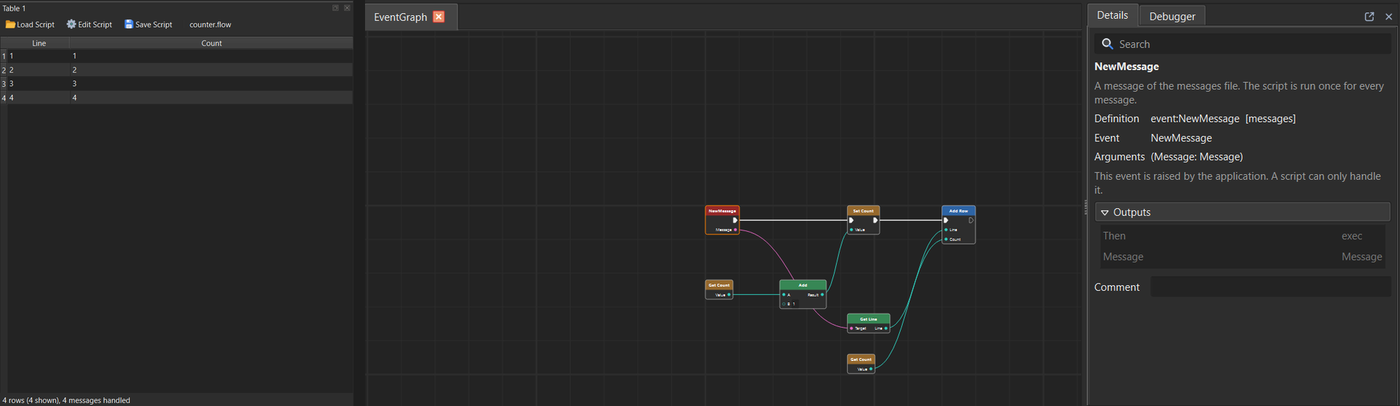
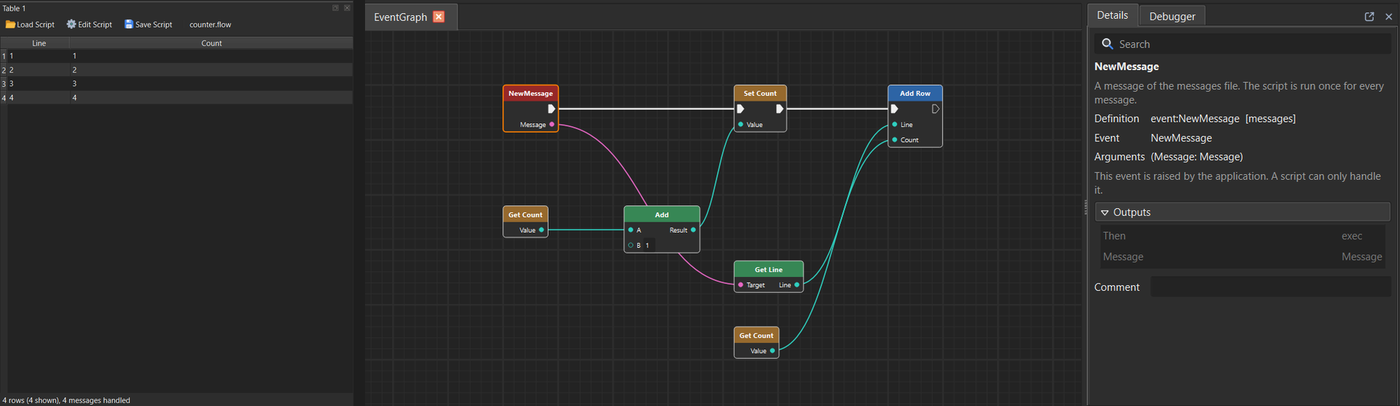
Presentation: the screenshots show the whole script, as large as it fits
ScriptEditor::devFrameAll (View > Frame All); flowstudio frames the
graph before FG_STUDIO_SCREENSHOT when FG_STUDIO_FRAME is set, the
embedded example before its editor screenshot.

diff --git a/Apps/Studio/main.cpp b/Apps/Studio/main.cpp
@@ -49,9 +49,11 @@ int main(int argc, char** argv) {
     if (qEnvironmentVariableIsSet("FG_STUDIO_RUN")) {
         QTimer::singleShot(800, &app, [ed] { ed->devRun(qEnvironmentVariable("FG_STUDIO_RUN"), qEnvironmentVariable("FG_STUDIO_BREAK")); });
     }
-    // Developer aid: FG_STUDIO_SCREENSHOT=<file.png> saves a screenshot of the window and exits.
+    // Developer aid: FG_STUDIO_SCREENSHOT=<file.png> saves a screenshot of the window and exits; with FG_STUDIO_FRAME set, the
+    // whole graph is framed first (View > Frame All: a run that stopped at a breakpoint shows the node it is at).
     if (qEnvironmentVariableIsSet("FG_STUDIO_SCREENSHOT")) {
         QString out = qEnvironmentVariable("FG_STUDIO_SCREENSHOT");
+        if (qEnvironmentVariableIsSet("FG_STUDIO_FRAME")) QTimer::singleShot(2200, &app, [ed] { ed->devFrameAll(); });
         QTimer::singleShot(2500, &app, [ed, out, &app] {
             ed->window()->grab().save(out);
             if (qEnvironmentVariableIsSet("FG_STUDIO_SCENESHOT")) ed->devSceneShot(qEnvironmentVariable("FG_STUDIO_SCENESHOT"));

diff --git a/Editor/Include/FlowGraphEditor/ScriptEditor.hpp b/Editor/Include/FlowGraphEditor/ScriptEditor.hpp
@@ -173,9 +173,11 @@ public:
     void refreshScript();                            // compile again (plugins or events were added to the runtime)
     void log(int level, const QString& text);        // level: 0 info, 1 warning, 2 error (fg::LogLevel)
 
-    // Developer aids used by the smoke tests: run an entry, select an item, write screen coordinates, render the graph.
+    // Developer aids used by the smoke tests: run an entry, select an item, frame the graph, write screen coordinates, render the
+    // graph.
     void devRun(const QString& entry, const QString& breakpoint = QString());
     void devSelect(const QString& spec);
+    void devFrameAll();
     void devProbe(const QString& file, bool coordinates);
     void devSceneShot(const QString& file);
 

diff --git a/Editor/Source/Studio/ScriptEditorWindow.hpp b/Editor/Source/Studio/ScriptEditorWindow.hpp
@@ -62,6 +62,8 @@ public:
     void chooseTheme(Theme theme);
     // Developer aid: "node:<graph>:<id>", "var:<name>" or "graph:<name>" selects that item and shows its details; "theme:light" (dark, system) switches the theme without saving it.
     void devSelect(const QString& spec);
+    // Developer aid: View > Frame All in the graph shown (the whole script in view, as large as it fits).
+    void devFrameAll();
     // Developer aid for real-input smoke tests: writes global screen coordinates / script state to a text file.
     void devProbe(const QString& file, bool coordinates);
     // Developer aid: renders the current graph at 2x into a PNG.

diff --git a/Examples/Embedded/Source/main.cpp b/Examples/Embedded/Source/main.cpp
@@ -118,6 +118,7 @@ int main(int argc, char** argv) {
             table->editScript();
             fged::ScriptEditor* editor = window.editorHub().editor();
             editor->devSelect("node:EventGraph:1");
+            QTimer::singleShot(1200, &app, [editor] { editor->devFrameAll(); });     // the whole script, as large as it fits
             QTimer::singleShot(1500, &app, [&, editor] {
                 editor->window()->grab().save(screenshot + ".editor.png");
                 app.quit();

diff --git a/Editor/Source/Studio/ScriptEditor.cpp b/Editor/Source/Studio/ScriptEditor.cpp
@@ -156,6 +156,7 @@ void ScriptEditor::devRun(const QString& entry, const QString& breakpoint) {
     window_->runEntry(entry);
 }
 void ScriptEditor::devSelect(const QString& spec) { window_->devSelect(spec); }
+void ScriptEditor::devFrameAll() { window_->devFrameAll(); }
 void ScriptEditor::devProbe(const QString& file, bool coordinates) { window_->devProbe(file, coordinates); }
 void ScriptEditor::devSceneShot(const QString& file) { window_->devSceneShot(file); }
 

diff --git a/Editor/Source/Studio/ScriptEditorWindow.cpp b/Editor/Source/Studio/ScriptEditorWindow.cpp
@@ -1205,6 +1205,8 @@ void ScriptEditorWindow::runEntry(const QString& entry) {
     runOrContinue();
 }
 
+void ScriptEditorWindow::devFrameAll() { actFrame_->trigger(); }
+
 void ScriptEditorWindow::devSelect(const QString& spec) {
     QStringList p = spec.split(':');
     if (p.size() == 3 && p[0] == "node") focusNode(p[1], p[2].toInt());

diff --git a/README.md b/README.md
@@ -426,7 +426,8 @@ version is refused rather than read partially and overwritten): variables, and g
 signature of the event when the script was made. A node of a definition with `customInputs` / `customOutputs` (`NodeDef`) can carry
 the data pins the user added: `"inputs"` / `"outputs"` arrays of `{"name", "type", "default"}`, like the signature of a function.
 
-Developer aids of flowstudio: `FG_STUDIO_SCREENSHOT=file.png` (screenshot and quit), `FG_STUDIO_RUN=Main`,
+Developer aids of flowstudio: `FG_STUDIO_SCREENSHOT=file.png` (screenshot and quit; `FG_STUDIO_FRAME=1` frames the graph
+first), `FG_STUDIO_RUN=Main`,
 `FG_STUDIO_BREAK=Graph:id`, `FG_STUDIO_SELECT=node:Graph:id|var:name|graph:name`, `FG_STUDIO_SCENESHOT=file.png`,
 `FG_STUDIO_SIZE=1480x800` (the window's size), `FG_STUDIO_RECORD=folder` (a picture of the window every `FG_STUDIO_RECORD_MS`
 ms, `FG_STUDIO_RECORD_COUNT` of them, then quit: the frames of the GIF above).
